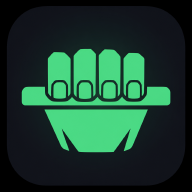
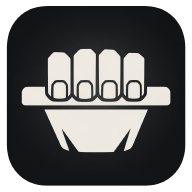
feat(icône) : icône de l'app aux couleurs Granite
Main en magnésie sur granite, halo vert remplacé par un halo neutre, coins
hors du carré arrondi transparents ; fond granite pour l'icône maskable.
Recolorage sans dépendance (tools/granite-recolor.mjs, option --granite de
make-app-icons). README : adresse GitHub Pages de l'app. Cache crimp-v22.

diff --git a/test/granite-recolor.test.js b/test/granite-recolor.test.js
@@ -1,0 +1,40 @@
+import { test } from 'node:test';
+import assert from 'node:assert/strict';
+import { recolorGranite, GRANITE, CHALK } from '../tools/granite-recolor.mjs';
+
+// Recolore une image d'un seul pixel RGBA et rend [r, g, b, a].
+const one = (r, g, b, a = 255) =>
+  [...recolorGranite({ width: 1, height: 1, channels: 4, data: Buffer.from([r, g, b, a]) }).data];
+const near = (got, want, tol, msg) =>
+  want.forEach((v, i) => assert.ok(Math.abs(got[i] - v) <= tol, `${msg} : ${got} au lieu de ${want}`));
+
+test('la main verte devient blanc magnésie', () => {
+  near(one(75, 218, 132), [...CHALK, 255], 2, 'main');
+});
+
+test('le fond sombre devient granite', () => {
+  near(one(16, 18, 26), [...GRANITE, 255], 2, 'fond');
+});
+
+test('les coins noirs deviennent transparents', () => {
+  assert.equal(one(0, 0, 0)[3], 0);
+});
+
+test('le halo vert devient un halo gris neutre, plus clair que le granite', () => {
+  const [r, g, b, a] = one(20, 36, 35);
+  assert.equal(a, 255);
+  assert.ok(Math.abs(r - g) <= 3 && Math.abs(g - b) <= 3, `halo teinté : ${[r, g, b]}`);
+  assert.ok(r > GRANITE[0], `halo invisible : ${[r, g, b]}`);
+});
+
+test('aucun pixel vert ne reste', () => {
+  for (let t = 0; t <= 1; t += 0.05) {
+    const p = [16, 18, 26].map((v, i) => Math.round(v + t * ([75, 218, 132][i] - v)));
+    const [r, g, b] = one(...p);
+    assert.ok(g - Math.max(r, b) <= 6, `vert à t=${t.toFixed(2)} : ${[r, g, b]}`);
+  }
+});
+
+test('le bruit presque noir des coins devient transparent', () => {
+  for (const p of [[2, 1, 2], [3, 3, 4], [1, 2, 0]]) assert.equal(one(...p)[3], 0, `${p}`);
+});

diff --git a/sw.js b/sw.js
@@ -1,5 +1,5 @@
 // sw.js — service worker : cache-first pour un fonctionnement 100 % hors-ligne.
-const CACHE = 'crimp-v21';
+const CACHE = 'crimp-v22';
 const ASSETS = [
   '.', 'index.html', 'manifest.webmanifest',
   'css/fonts.css', 'css/styles.css',

diff --git a/README.md b/README.md
@@ -32,9 +32,13 @@ node tools/make-icons.mjs
 
 ## Installer sur le téléphone
 
-Héberger le dossier sur un hébergeur statique HTTPS (GitHub Pages, Netlify,
-Vercel), ouvrir l'URL sur le téléphone, puis « Ajouter à l'écran d'accueil ».
+L'app est en ligne sur **GitHub Pages** : https://vincentregnaul.github.io/Forceadoigts/
+(publiée automatiquement à chaque push sur `main`, réglage Settings → Pages du dépôt).
+Ouvrir l'URL sur le téléphone, puis « Ajouter à l'écran d'accueil ».
 Une fois installée, l'app fonctionne entièrement hors-ligne.
+
+Icônes : `node tools/make-app-icons.mjs assets/logo-source.png icons --granite`
+(recolore le logo aux couleurs Granite, puis incrémenter `CACHE` dans `sw.js`).
 
 ## Utilisation
 
